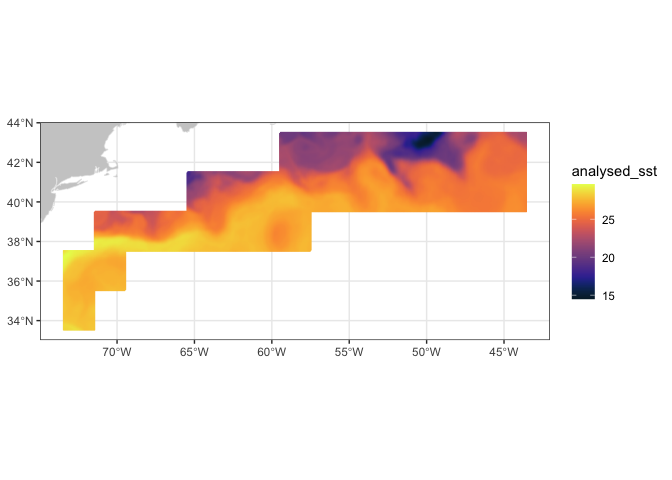
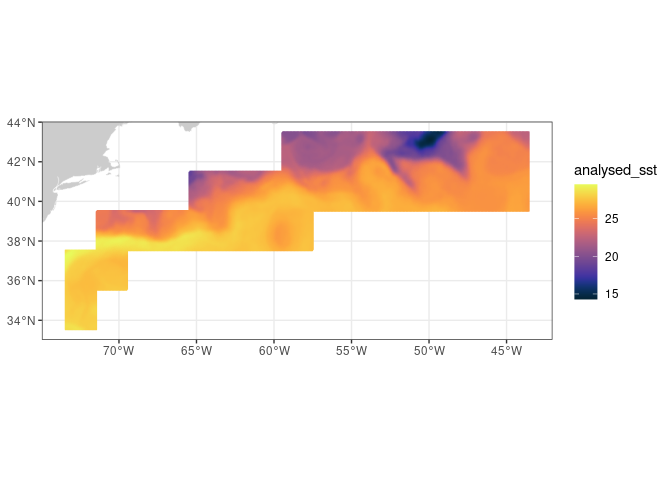
reviewed, fixed typos, recommend deleting last section

diff --git a/extract-satellite-data-within-boundary/R/extract-satellite-data-within-boundary.md b/extract-satellite-data-within-boundary/R/extract-satellite-data-within-boundary.md
@@ -12,14 +12,14 @@ geographical locations where the timespan or frequency measurements, or
 spatial dimensions or remoteness of the locations, make physical
 sampling impossible or impractical. One drawback is that satellite data
 are often rectangular, whereas geographical locations can have irregular
-boundaries. Examples of locations with boundaries include marine
-protected area or marine physical, biological, and ecological divisions
-like the Longhurst Marine Provinces.
+boundaries. Examples of boundaries include marine protected areas or
+marine physical, biological, and ecological divisions like the Longhurst
+Marine Provinces.
 
 ## Objectives
 
 In this tutorial we will learn how to download a timeseries of SST
-satellite data from an ERDDAP server, and then masked the data to retain
+satellite data from an ERDDAP server, and then mask the data to retain
 only the data within an irregular geographical boundary (polygon). We
 will then plot a yearly seasonal cycle from within the boundary.
 
@@ -33,10 +33,11 @@ will then plot a yearly seasonal cycle from within the boundary.
 
 **NOAA Geo-polar Blended Analysis Sea-Surface Temperature, Global,
 Daily, 5km, 2019-Present**  
-The NOAA geo-polar blended SST is a high resolution satellite-based sea
-surface temperature (SST) product that combines SST data from US,
-Japanese and European geostationary infrared imagers, and low-earth
-orbiting infrared (U.S. and European) SST data, into a single product.  
+The NOAA geo-polar blended SST is a high resolution satellite-based
+gap-free sea surface temperature (SST) product that combines SST data
+from US, Japanese and European geostationary infrared imagers, and
+low-earth orbiting infrared (U.S. and European) SST data, into a single
+product.  
 <https://coastwatch.pfeg.noaa.gov/erddap/griddap/NOAA_DHW_monthly>
 
 **Longhurst Marine Provinces**  
@@ -48,7 +49,10 @@ available online (<https://www.marineregions.org/downloads.php>) and
 within the shapes folder associated with this repository. For this
 tutorial we will use the Gulf Stream province (ProvCode: GFST)
 
-![](../images/longhurst.png)
+<figure>
+<img src="../images/longhurst.png" alt="../images/longhurst.png" />
+<figcaption aria-hidden="true">../images/longhurst.png</figcaption>
+</figure>
 
 ## Install packages and load libraries
 
@@ -81,9 +85,9 @@ pkges = installed.packages()[,"Package"]
 
 ## Load boundary coordinates
 
-Longhurst marine provinces shapefiles includes a list of regions. For
-this exercise, we will only use a boundary of one province, Gulf Stream
-region (“GFST”).
+The shapefile for the Longhurst marine provinces includes a list of
+regions. For this exercise, we will only use the boundary of one
+province, the Gulf Stream region (“GFST”).
 
 ``` r
 # Set directory path
@@ -113,12 +117,13 @@ ycoord <- st_coordinates(GFST)[,2]
 
 ## Select the satellite dataset
 
-We will load the sea surface temperature data from a geo-polar blended
-SST satellite data product on the CoastWatch ERDDAP. The dataset ID for
-this data product is **nesdisBLENDEDsstDNDaily**.
+We will load the sea surface temperature data from the geo-polar blended
+SST satellite data product hosted on the CoastWatch ERDDAP. The dataset
+ID for this data product is **nesdisBLENDEDsstDNDaily**.
 
-**rerddap** package first obtains information about the data of our
-interest, then will import the data.
+We will use the *info* function from the **rerddap** package first
+obtains information about the dataset of interest, then we will import
+the data.
 
 ``` r
 # Set ERDDAP URL
@@ -135,7 +140,7 @@ dataInfo
     ##  Base URL: http://coastwatch.pfeg.noaa.gov/erddap 
     ##  Dataset Type: griddap 
     ##  Dimensions (range):  
-    ##      time: (2019-07-22T12:00:00Z, 2023-08-29T12:00:00Z) 
+    ##      time: (2019-07-22T12:00:00Z, 2023-08-30T12:00:00Z) 
     ##      latitude: (-89.975, 89.975) 
     ##      longitude: (-179.975, 179.975) 
     ##  Variables:  
@@ -150,17 +155,17 @@ dataInfo
 ## Set the options for the polygon data extract
 
 Using **rxtractogon** function, we will import the satellite data from
-the erddap. The **rxtractogon** takes in the variable(s) and the
-coordinates as input.
+erddap. The **rxtractogon** function takes the variable(s) of interest
+and the coordinates as input.
 
-- For the coordinates: determine your selctions for x, y, z, and time.
-- time coordinate: The time variable passed to xtracogon must contain
-  two elements, the start and endpoints of the desired time period. This
-  example uses ERDDAP’s **last** option to retrieve data from the most
-  recent time step. The **last** option also accepts the minus **-**
-  operator. To request the time step with the second most recent data
-  use “last-1”. In the script below the time variable (tcoord) is
-  defined as **tcoord \<- c(“last-1”, “last”)**
+- For the coordinates: determine the range of x, y, z, and time.
+- time coordinate: The time variable passed to xtractogon must contain
+  two elements, the start and end points of the desired time period.
+  This example uses ERDDAP’s **last** option to retrieve data from the
+  most recent time step. The **last** option also accepts the minus
+  **-** operator. To request the time step with the second most recent
+  data use “last-1”. In the script below the time variable (tcoord) is
+  defined as **tcoord \<- c(“last-5”, “last”)**
 
 ``` r
 # set the parameter to extract
@@ -169,15 +174,16 @@ parameter <- 'analysed_sst'
 tcoord <- c("last-5", "last-1")
 
 # We already extracted the xcoord (longitude) and ycoord (latitude) from the shapefiles 
-# The dummy code below is just a placekeeper indicating it is necessary to define what the longitude and latitude vectors are that make up the boundary of the polygon.
+# The dummy code below is just a placeholder indicating it is necessary to define what the longitude and latitude vectors are that make up the boundary of the polygon.
 xcoord <- xcoord
 ycoord <- ycoord
 ```
 
 ## Extract data and mask it using rxtractogon
 
-- Run **rxtractogon** to extract data from the satellite dataset and
-  mask out any data outside the polygon boundary.  
+- the **rxtractogon** function automatically extracts data from the
+  satellite dataset and masks out any data outside the polygon
+  boundary.  
 - List the data
 
 ``` r
@@ -189,23 +195,26 @@ str(satdata)
 ```
 
     ## List of 6
-    ##  $ analysed_sst: num [1:600, 1:201, 1:5] 28.3 28.3 28.3 28.4 28.4 ...
+    ##  $ analysed_sst: num [1:600, 1:201, 1:5] 28.5 28.5 28.5 28.5 28.5 ...
     ##  $ datasetname : chr "nesdisBLENDEDsstDNDaily"
     ##  $ longitude   : num [1:600(1d)] -73.5 -73.4 -73.4 -73.3 -73.3 ...
     ##  $ latitude    : num [1:201(1d)] 33.5 33.6 33.6 33.7 33.7 ...
     ##  $ altitude    : logi NA
-    ##  $ time        : POSIXlt[1:5], format: "2023-08-24 12:00:00" "2023-08-25 12:00:00" ...
+    ##  $ time        : POSIXlt[1:5], format: "2023-08-25 12:00:00" "2023-08-26 12:00:00" ...
     ##  - attr(*, "class")= chr [1:2] "list" "rxtracto3D"
 
 ### Plot the data
 
-- Use the plotBBox function in rerddapXtracto to quickly plot the data
+- Use the plotBBox function in the **rerddapXtracto** package to quickly
+  plot the data
 
 ``` r
 plotBBox(satdata, plotColor = 'thermal',maxpixels=1000000)
 ```
 
 ![](images/map-1.png)<!-- -->
+
+## COMMENT: remove this last section as it doesn’t apply to SST
 
 ### Apply a function to the data
 
